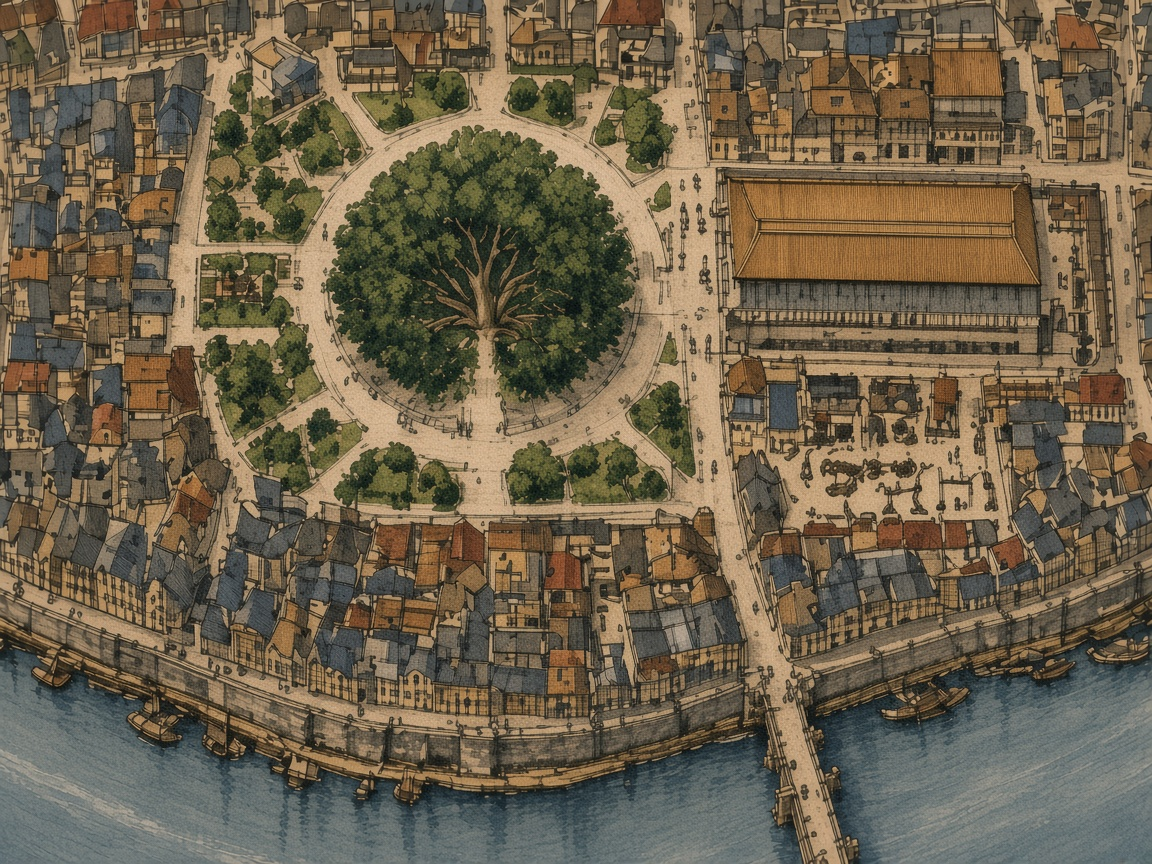
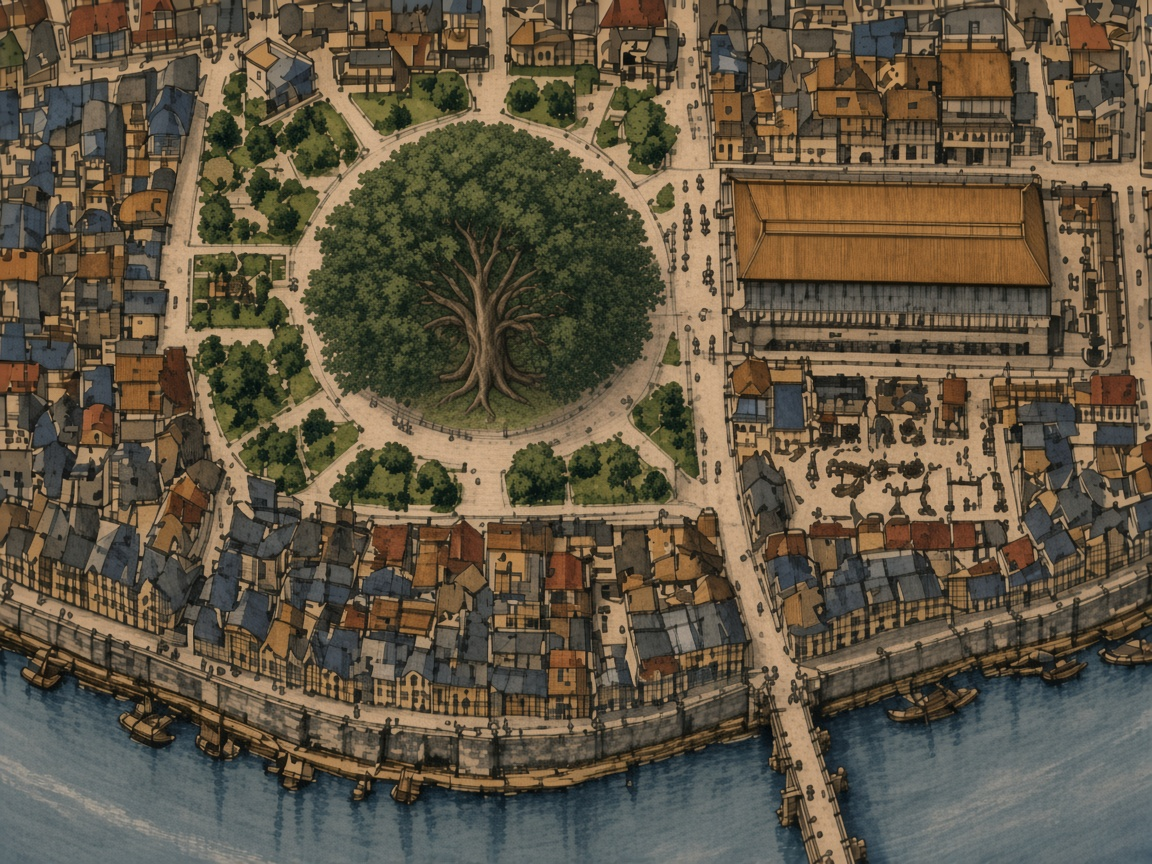
Paint Maiethlir's Tree as a mature Hand.
The closer sheet had a bright round canopy. The Hand is now a broad dark hardwood filling its square, still east of the tablet-hall and not the First Hand.

diff --git a/14 - Assets/Maps/label_maiethlir_heart.py b/14 - Assets/Maps/label_maiethlir_heart.py
@@ -2,7 +2,9 @@
 """Label the Maiethlir heart zoom.
 
 A closer sheet of the Tree, the Slow Water, the Loft Row, and the
-tablet-hall. Not a new district. The image model was not asked to write.
+tablet-hall. The Tree is a mature Hand: a broad dark hardwood filling
+its square, not the First Hand. Not a new district. The image model
+was not asked to write.
 
     python3 "14 - Assets/Maps/label_maiethlir_heart.py"
 """

diff --git a/14 - Assets/Maps/The Atlas Sheets.md b/14 - Assets/Maps/The Atlas Sheets.md
@@ -264,7 +264,7 @@ Repainted again the same day so each city fills its sheet, and the zoom is the s
 
 ![[Maiethlir-Heart-Atlas.png]]
 
-The same square as the city plate, drawn closer: the Tree on the left, the tablet-hall one street to the east, the Slow Water along the bottom. Rebuild with `label_maiethlir_heart.py`.
+The same square as the city plate, drawn closer: the Tree on the left is a mature Hand, a broad dark hardwood filling its square, not the First Hand. The tablet-hall stays one street to the east. The Slow Water stays along the bottom. Rebuild with `label_maiethlir_heart.py`.
 
 ![[Maiethlir-Heart-Atlas-Labeled.png]]
 
